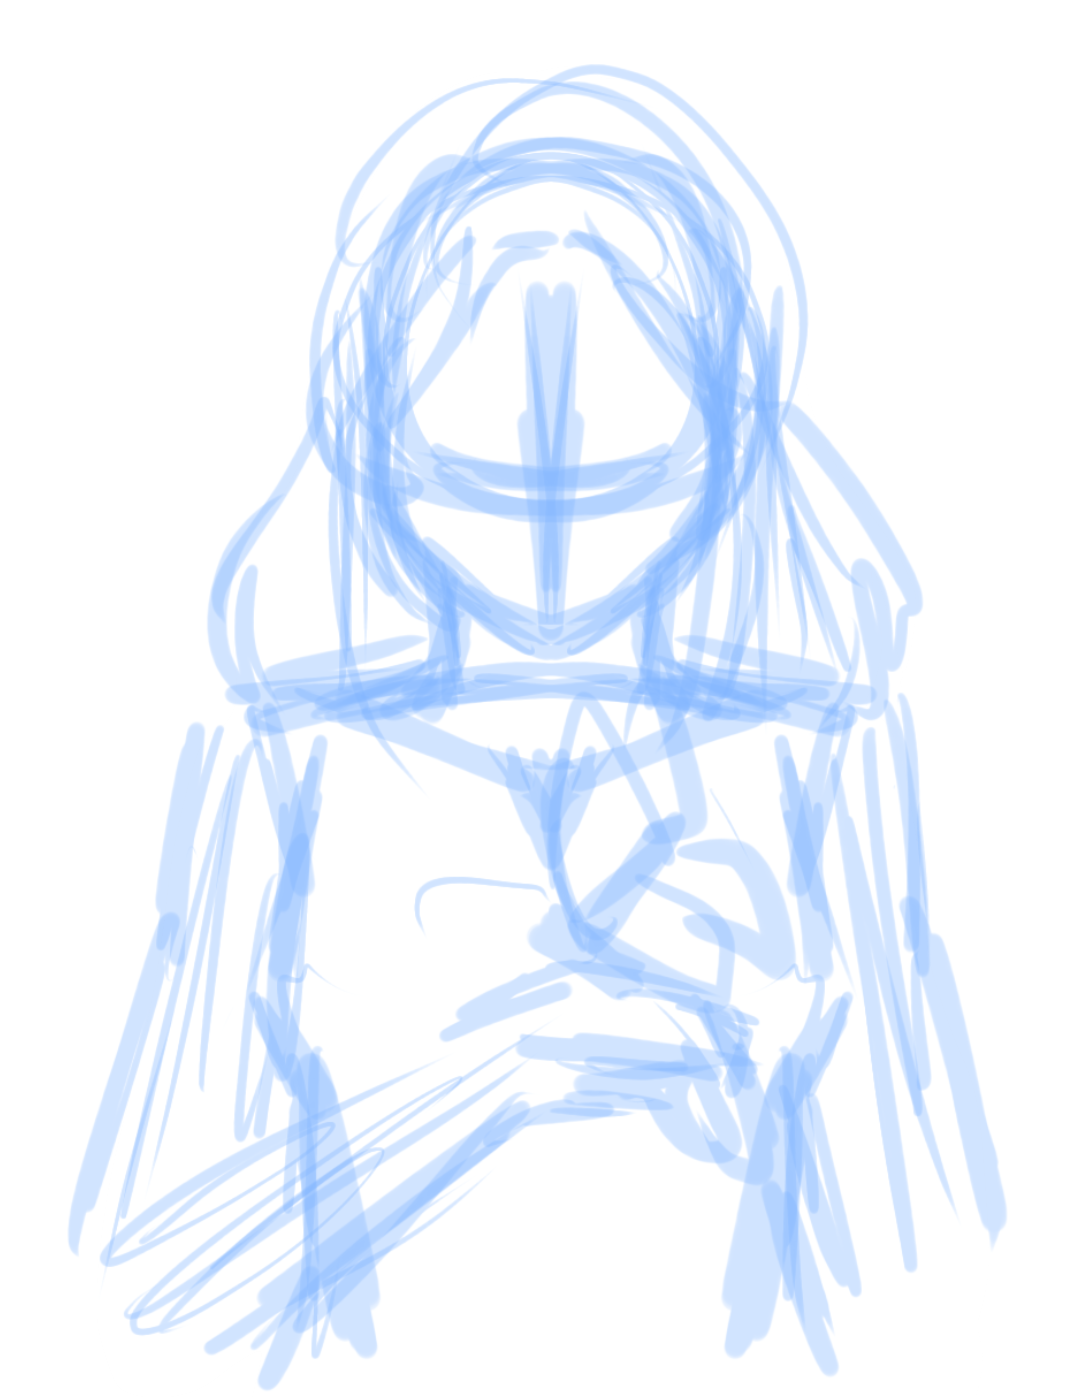
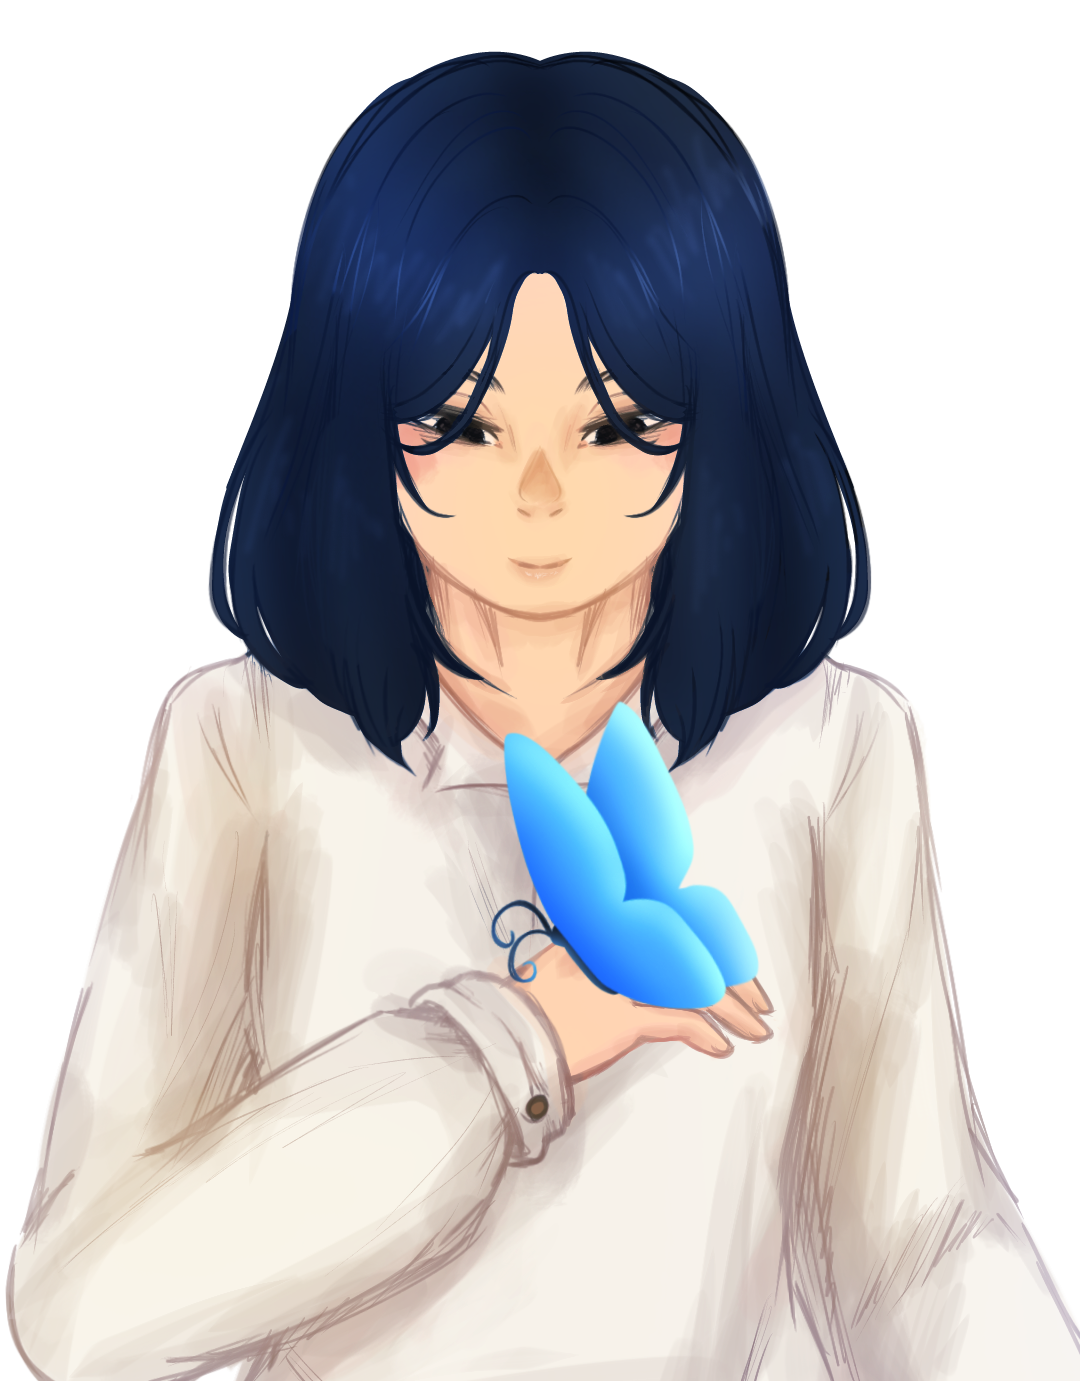
[Atualização da ilustração da Hero section + Estilizando a seção de Formação academica - Editado arquivo index.html nas linhas 149 a 159,161 e 176 a 177 e arquivo custom.css nas linhas 197 a 199,217,258 a 286,331 e 433 a 460]

diff --git a/assets/css/custom.css b/assets/css/custom.css
@@ -194,9 +194,9 @@ button {
 .drawing-division img {
     position: relative;
     width: 100%;
-    height: 10vw;
-    min-height: 150px;
-    max-height: 150px;
+    height: 20vw;
+    min-height: 120px;
+    max-height: 100px;
     object-fit: contain;
     object-position: bottom;
     display: block;
@@ -214,6 +214,7 @@ button {
     font-size: 1.2rem;
     color: var(--normalfonts);
     padding-top: 1rem;
+    padding-bottom: 1rem;
     margin: none;
 }
 
@@ -253,6 +254,35 @@ button {
     object-fit: contain;
     object-position: bottom;
     display: block;
+}
+
+
+.academicdate {
+    display: inline;
+    gap: 1rem;
+    margin-bottom: 1rem;
+    width: 5rem;
+}
+
+.yearperiod {
+    background-color: black;
+    color: white;
+    font-size: 0.70rem;
+    padding: 0.5rem 1rem;
+}
+
+.academictext {
+    display: block;
+    padding-top: 1rem;
+    font-size: 1.4rem;
+    font-family: 'Lato', sans-serif;
+    font-weight: 500;
+}
+
+.universityname {
+    font-size: 1rem;
+    font-weight: 400;
+    font-family: 'Nunito';
 }
 
 .mbcontact {
@@ -298,7 +328,7 @@ button {
         border: none;
         transition: transform 0.3s ease;
     }
-    
+
     .themes img {
         width: 3rem;
         height: auto;
@@ -399,6 +429,34 @@ button {
         right: 22rem;
         object-position: bottom;
         display: block;
+    }
+
+    .academicdate {
+        display: inline;
+        gap: 1rem;
+        margin-bottom: 1rem;
+        width: 5rem;
+    }
+
+    .yearperiod {
+        background-color: black;
+        color: white;
+        font-size: 0.70rem;
+        padding: 0.5rem 1rem;
+    }
+
+    .academictext {
+        display: block;
+        padding: 1rem;
+        font-size: 1.2rem;
+        font-family: 'Lato', sans-serif;
+        font-weight: 400;
+    }
+
+    .universityname {
+    font-size: 1rem;
+    font-weight: 400;
+    font-family: 'Nunito';
     }
 
     .mbcontact {

diff --git a/index.html b/index.html
@@ -146,12 +146,19 @@
       </div>
       <div class="text-container subsection academicbg">
         <h2 class="title">Formação Acadêmica</h2>
-        <img alt="Logo da Pontifícia Universidade Católica de Campinas" src="assets/img/logo-puc.jpg" />
-        <div class="paragraphy">
-          <p>Cursando Design Digital</p>
-          <p>Pontifícia Universidade Católica de Campinas 2024</p>
+        <div class="academiccontainer">
+          <img alt="Logo da Pontifícia Universidade Católica de Campinas" src="assets/img/logo-puc.jpg" />
+          <div class="academicdate">  
+            <span class="yearperiod">2024-2028 | ATUALMENTE</span>
+          </div>
+          <div class="academictext">
+            <p>
+            <span class="fa-solid fa-suitcase"></span>
+            Cursando Design Digital</p>
+          </div>
+          <p class="universityname">Pontifícia Universidade Católica de Campinas</p>
         </div>  
-        </div>
+      </div>
     </section>
 
     <div class="drawing-division">
@@ -166,7 +173,8 @@
     <section id="contact" class="mbcontact">
       <div class="text-container">
         <h2 class="title">Contato</h2>
-        <p class="paragraphy"></p>
+        <p class="paragraphy">Para garantir que nenhuma mensagem se perca, centralizei o atendimento por e-mail. Envie sua dúvida pelo
+          formulário abaixo e retornarei com toda a paciência!</p>
       </div>
       <div class="row top-pad sub-icon">
         <form class="form-container">
